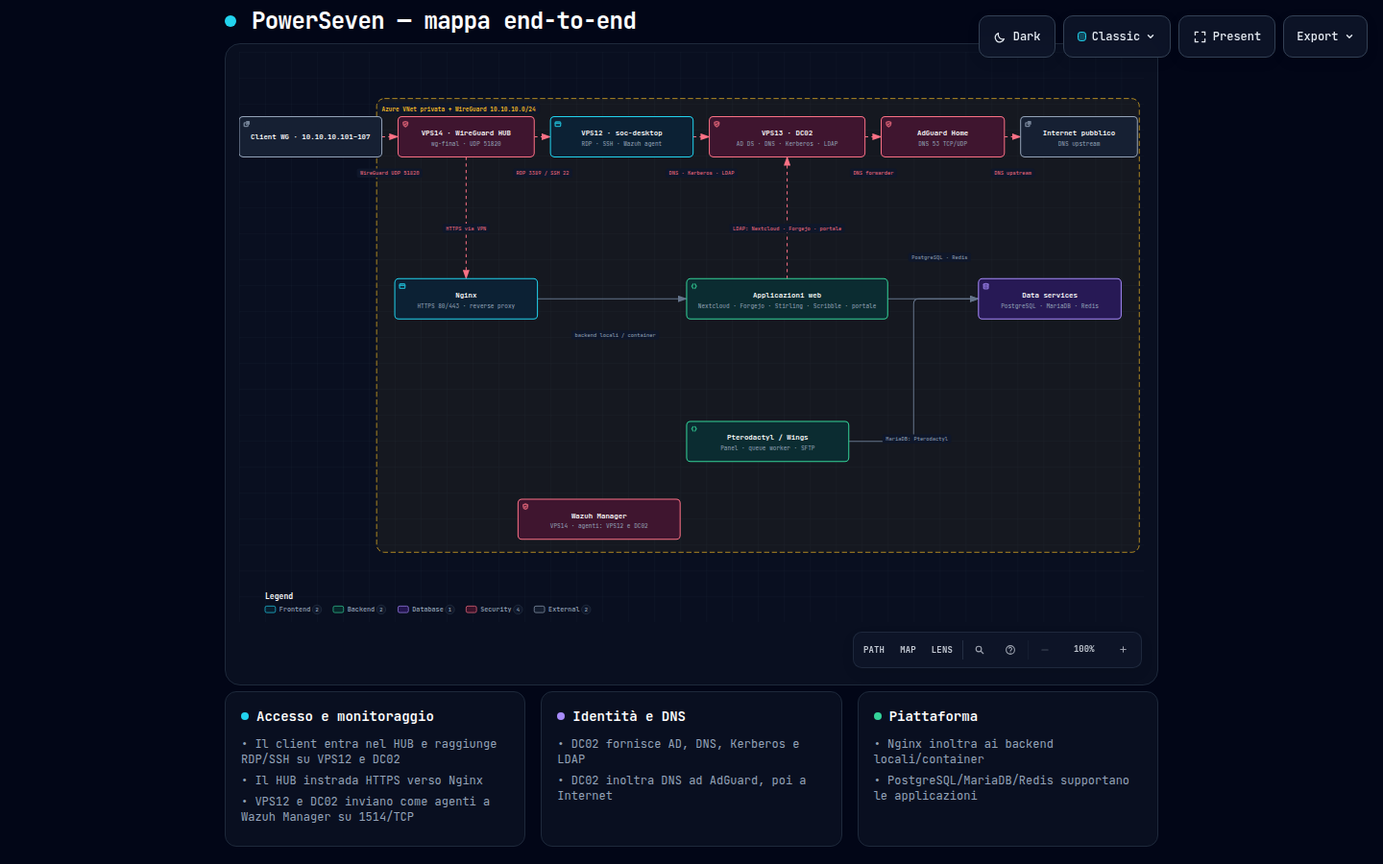
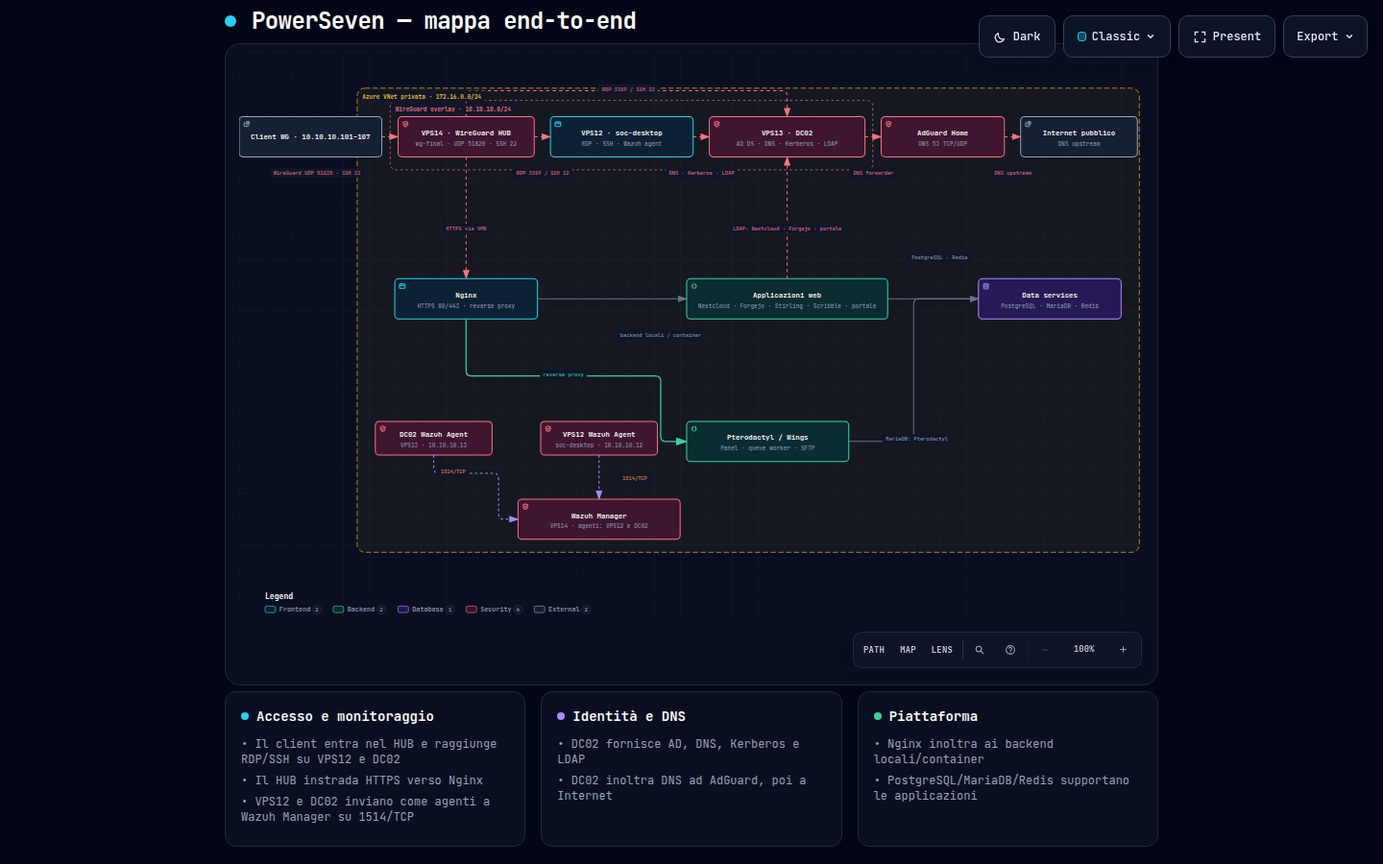
docs: finalize PowerSeven end-to-end architecture

diff --git a/diagrams/powerseven-end-to-end.html b/diagrams/powerseven-end-to-end.html
@@ -5156,19 +5156,25 @@ OTHER DEALINGS IN THE FONT SOFTWARE.
         <rect width="100%" height="100%" fill="url(#grid)" />
 
         <!-- Boundaries (behind everything) -->
-        <rect data-graph-role="structural-frame" data-composition-frame-kind="region" data-composition-frame-id="0" data-composition-frame-label="Azure VNet privata + WireGuard 10.10.10.0/24" x="212" y="72" width="1176" height="700" rx="12" class="c-region" stroke-width="1"/>
+        <rect data-graph-role="structural-frame" data-composition-frame-kind="region" data-composition-frame-id="0" data-composition-frame-label="Azure VNet privata · 172.16.0.0/24" x="182" y="56" width="1206" height="716" rx="12" class="c-region" stroke-width="1"/>
+
+        <rect data-graph-role="structural-frame" data-composition-frame-kind="security-group" data-composition-frame-id="1" data-composition-frame-label="WireGuard overlay · 10.10.10.0/24" x="233" y="75" width="744" height="107" rx="8" class="c-security-group" stroke-width="1"/>
 
         <!-- Connection paths (before components for correct z-order) -->
-        <path data-edge-from="clients" data-edge-to="hub" data-edge-label="WireGuard UDP 51820" data-edge-key="0" data-composition-points="220,131;245,131" d="M 220 131 L 245 131" class="a-security" stroke-width="1.5" marker-end="url(#arrowhead-security)"/>
+        <path data-edge-from="clients" data-edge-to="hub" data-edge-label="WireGuard UDP 51820 · SSH 22" data-edge-key="0" data-composition-points="220,131;245,131" d="M 220 131 L 245 131" class="a-security" stroke-width="1.5" marker-end="url(#arrowhead-security)"/>
         <path data-edge-from="hub" data-edge-to="desktop" data-edge-label="RDP 3389 / SSH 22" data-edge-key="1" data-composition-points="455,131;480,131" d="M 455 131 L 480 131" class="a-security" stroke-width="1.5" marker-end="url(#arrowhead-security)"/>
-        <path data-edge-from="desktop" data-edge-to="dc" data-edge-label="DNS · Kerberos · LDAP" data-edge-key="2" data-composition-points="700,131;725,131" d="M 700 131 L 725 131" class="a-security" stroke-width="1.5" marker-end="url(#arrowhead-security)"/>
-        <path data-edge-from="dc" data-edge-to="adguard" data-edge-label="DNS forwarder" data-edge-key="3" data-composition-points="965,131;990,131" d="M 965 131 L 990 131" class="a-security" stroke-width="1.5" marker-end="url(#arrowhead-security)"/>
-        <path data-edge-from="adguard" data-edge-to="internet" data-edge-label="DNS upstream" data-edge-key="4" data-composition-points="1180,131;1205,131" d="M 1180 131 L 1205 131" class="a-security" stroke-width="1.5" marker-end="url(#arrowhead-security)"/>
-        <path data-edge-from="hub" data-edge-to="nginx" data-edge-label="HTTPS via VPN" data-edge-key="5" data-composition-points="350,162;350,350" d="M 350 162 L 350 350" class="a-security" stroke-width="1.5" marker-end="url(#arrowhead-security)"/>
-        <path data-edge-from="nginx" data-edge-to="apps" data-edge-label="backend locali / container" data-edge-key="6" data-composition-points="460,381;690,381" d="M 460 381 L 690 381" class="a-default" stroke-width="1.5" marker-end="url(#arrowhead)"/>
-        <path data-edge-from="apps" data-edge-to="dc" data-edge-label="LDAP: Nextcloud · Forgejo · portale" data-edge-key="7" data-composition-points="845,350;845,162" d="M 845 350 L 845 162" class="a-security" stroke-width="1.5" marker-end="url(#arrowhead-security)"/>
-        <path data-edge-from="apps" data-edge-to="data" data-edge-label="PostgreSQL · Redis" data-edge-key="8" data-composition-points="1000,381;1140,381" d="M 1000 381 L 1140 381" class="a-default" stroke-width="1.5" marker-end="url(#arrowhead)"/>
-        <path data-edge-from="pter" data-edge-to="data" data-edge-label="MariaDB: Pterodactyl" data-edge-key="9" data-composition-points="940,601;1040,601;1040,381;1140,381" d="M 940 601 L 1032 601 Q 1040 601 1040 593 L 1040 389 Q 1040 381 1048 381 L 1140 381" class="a-default" stroke-width="1.5" marker-end="url(#arrowhead)"/>
+        <path data-edge-from="hub" data-edge-to="dc" data-edge-label="RDP 3389 / SSH 22" data-edge-key="2" data-composition-points="350,100;350,60;845,60;845,100" d="M 350 100 L 350 68 Q 350 60 358 60 L 837 60 Q 845 60 845 68 L 845 100" class="a-security" stroke-width="1.5" marker-end="url(#arrowhead-security)"/>
+        <path data-edge-from="desktop" data-edge-to="dc" data-edge-label="DNS · Kerberos · LDAP" data-edge-key="3" data-composition-points="700,131;725,131" d="M 700 131 L 725 131" class="a-security" stroke-width="1.5" marker-end="url(#arrowhead-security)"/>
+        <path data-edge-from="dc" data-edge-to="adguard" data-edge-label="DNS forwarder" data-edge-key="4" data-composition-points="965,131;990,131" d="M 965 131 L 990 131" class="a-security" stroke-width="1.5" marker-end="url(#arrowhead-security)"/>
+        <path data-edge-from="adguard" data-edge-to="internet" data-edge-label="DNS upstream" data-edge-key="5" data-composition-points="1180,131;1205,131" d="M 1180 131 L 1205 131" class="a-security" stroke-width="1.5" marker-end="url(#arrowhead-security)"/>
+        <path data-edge-from="hub" data-edge-to="nginx" data-edge-label="HTTPS via VPN" data-edge-key="6" data-composition-points="350,162;350,350" d="M 350 162 L 350 350" class="a-security" stroke-width="1.5" marker-end="url(#arrowhead-security)"/>
+        <path data-edge-from="nginx" data-edge-to="apps" data-edge-label="backend locali / container" data-edge-key="7" data-composition-points="460,381;690,381" d="M 460 381 L 690 381" class="a-default" stroke-width="1.5" marker-end="url(#arrowhead)"/>
+        <path data-edge-from="apps" data-edge-to="dc" data-edge-label="LDAP: Nextcloud · Forgejo · portale" data-edge-key="8" data-composition-points="845,350;845,162" d="M 845 350 L 845 162" class="a-security" stroke-width="1.5" marker-end="url(#arrowhead-security)"/>
+        <path data-edge-from="apps" data-edge-to="data" data-edge-label="PostgreSQL · Redis" data-edge-key="9" data-composition-points="1000,381;1140,381" d="M 1000 381 L 1140 381" class="a-default" stroke-width="1.5" marker-end="url(#arrowhead)"/>
+        <path data-edge-from="pter" data-edge-to="data" data-edge-label="MariaDB: Pterodactyl" data-edge-key="10" data-composition-points="940,601;1040,601;1040,381;1140,381" d="M 940 601 L 1032 601 Q 1040 601 1040 593 L 1040 389 Q 1040 381 1048 381 L 1140 381" class="a-default" stroke-width="1.5" marker-end="url(#arrowhead)"/>
+        <path data-edge-from="nginx" data-edge-to="pter" data-edge-label="reverse proxy" data-edge-key="11" data-composition-points="350,412;350,500;650,500;650,601;690,601" d="M 350 412 L 350 492 Q 350 500 358 500 L 642 500 Q 650 500 650 508 L 650 593 Q 650 601 658 601 L 690 601" class="a-emphasis" stroke-width="1.8" marker-end="url(#arrowhead-emphasis)"/>
+        <path data-edge-from="agent12" data-edge-to="wazuh" data-edge-label="1514/TCP" data-edge-key="12" data-composition-points="555,622;555,690" d="M 555 622 L 555 690" class="a-dashed" stroke-width="1.5" marker-end="url(#arrowhead-dashed)"/>
+        <path data-edge-from="agentdc" data-edge-to="wazuh" data-edge-label="1514/TCP" data-edge-key="13" data-composition-points="300,622;300,650;400,650;400,721;430,721" d="M 300 622 L 300 642 Q 300 650 308 650 L 392 650 Q 400 650 400 658 L 400 713 Q 400 721 408 721 L 430 721" class="a-dashed" stroke-width="1.5" marker-end="url(#arrowhead-dashed)"/>
 
         <!-- Components -->
         <g id="node-clients" data-node-id="clients" data-node-label="Client WG · 10.10.10.101–107" tabindex="0" role="button" aria-label="Focus Client WG · 10.10.10.101–107, Architecture component" aria-pressed="false" data-node-kind="external" data-node-context="Architecture component">
@@ -5182,8 +5188,8 @@ OTHER DEALINGS IN THE FONT SOFTWARE.
           <text data-node-label="" x="110" y="135" class="t-primary" font-size="11" font-weight="600" text-anchor="middle">Client WG · 10.10.10.101–107</text>
         </g>
 
-        <g id="node-hub" data-node-id="hub" data-node-label="VPS14 · WireGuard HUB" tabindex="0" role="button" aria-label="Focus VPS14 · WireGuard HUB, wg-final · UDP 51820, Azure VNet privata + WireGuard 10.10.10.0/24" aria-pressed="false" data-node-kind="security" data-node-sublabel="wg-final · UDP 51820" data-node-context="Azure VNet privata + WireGuard 10.10.10.0/24">
-          <title>VPS14 · WireGuard HUB · wg-final · UDP 51820 · Azure VNet privata + WireGuard 10.10.10.0/24</title>
+        <g id="node-hub" data-node-id="hub" data-node-label="VPS14 · WireGuard HUB" tabindex="0" role="button" aria-label="Focus VPS14 · WireGuard HUB, wg-final · UDP 51820 · SSH 22, Azure VNet privata · 172.16.0.0/24 › WireGuard overlay · 10.10.10.0/24" aria-pressed="false" data-node-kind="security" data-node-sublabel="wg-final · UDP 51820 · SSH 22" data-node-context="Azure VNet privata · 172.16.0.0/24 › WireGuard overlay · 10.10.10.0/24">
+          <title>VPS14 · WireGuard HUB · wg-final · UDP 51820 · SSH 22 · Azure VNet privata · 172.16.0.0/24 › WireGuard overlay · 10.10.10.0/24</title>
           <rect x="245" y="100" width="210" height="62" rx="6" class="c-mask"/>
           <rect x="245" y="100" width="210" height="62" rx="6" class="c-security" stroke-width="1.5"/>
           <g aria-hidden="true" data-semantic-sigil="security" class="semantic-sigil s-security" transform="translate(251 106) scale(0.6875)">
@@ -5191,11 +5197,11 @@ OTHER DEALINGS IN THE FONT SOFTWARE.
             <path d="m5.8 8 1.5 1.5 3-3"/>
           </g>
           <text data-node-label="" data-detail-anchor="" x="350" y="129" class="t-primary" font-size="11" font-weight="600" text-anchor="middle">VPS14 · WireGuard HUB</text>
-        <text data-detail="context" x="350" y="145" class="t-muted" font-size="9" text-anchor="middle">wg-final · UDP 51820</text>
+        <text data-detail="context" x="350" y="145" class="t-muted" font-size="9" text-anchor="middle">wg-final · UDP 51820 · SSH 22</text>
         </g>
 
-        <g id="node-desktop" data-node-id="desktop" data-node-label="VPS12 · soc-desktop" tabindex="0" role="button" aria-label="Focus VPS12 · soc-desktop, RDP · SSH · Wazuh agent, Azure VNet privata + WireGuard 10.10.10.0/24" aria-pressed="false" data-node-kind="frontend" data-node-sublabel="RDP · SSH · Wazuh agent" data-node-context="Azure VNet privata + WireGuard 10.10.10.0/24">
-          <title>VPS12 · soc-desktop · RDP · SSH · Wazuh agent · Azure VNet privata + WireGuard 10.10.10.0/24</title>
+        <g id="node-desktop" data-node-id="desktop" data-node-label="VPS12 · soc-desktop" tabindex="0" role="button" aria-label="Focus VPS12 · soc-desktop, RDP · SSH · Wazuh agent, Azure VNet privata · 172.16.0.0/24 › WireGuard overlay · 10.10.10.0/24" aria-pressed="false" data-node-kind="frontend" data-node-sublabel="RDP · SSH · Wazuh agent" data-node-context="Azure VNet privata · 172.16.0.0/24 › WireGuard overlay · 10.10.10.0/24">
+          <title>VPS12 · soc-desktop · RDP · SSH · Wazuh agent · Azure VNet privata · 172.16.0.0/24 › WireGuard overlay · 10.10.10.0/24</title>
           <rect x="480" y="100" width="220" height="62" rx="6" class="c-mask"/>
           <rect x="480" y="100" width="220" height="62" rx="6" class="c-frontend" stroke-width="1.5"/>
           <g aria-hidden="true" data-semantic-sigil="frontend" class="semantic-sigil s-frontend" transform="translate(486 106) scale(0.6875)">
@@ -5208,8 +5214,8 @@ OTHER DEALINGS IN THE FONT SOFTWARE.
         <text data-detail="context" x="590" y="145" class="t-muted" font-size="9" text-anchor="middle">RDP · SSH · Wazuh agent</text>
         </g>
 
-        <g id="node-dc" data-node-id="dc" data-node-label="VPS13 · DC02" tabindex="0" role="button" aria-label="Focus VPS13 · DC02, AD DS · DNS · Kerberos · LDAP, Azure VNet privata + WireGuard 10.10.10.0/24" aria-pressed="false" data-node-kind="security" data-node-sublabel="AD DS · DNS · Kerberos · LDAP" data-node-context="Azure VNet privata + WireGuard 10.10.10.0/24">
-          <title>VPS13 · DC02 · AD DS · DNS · Kerberos · LDAP · Azure VNet privata + WireGuard 10.10.10.0/24</title>
+        <g id="node-dc" data-node-id="dc" data-node-label="VPS13 · DC02" tabindex="0" role="button" aria-label="Focus VPS13 · DC02, AD DS · DNS · Kerberos · LDAP, Azure VNet privata · 172.16.0.0/24 › WireGuard overlay · 10.10.10.0/24" aria-pressed="false" data-node-kind="security" data-node-sublabel="AD DS · DNS · Kerberos · LDAP" data-node-context="Azure VNet privata · 172.16.0.0/24 › WireGuard overlay · 10.10.10.0/24">
+          <title>VPS13 · DC02 · AD DS · DNS · Kerberos · LDAP · Azure VNet privata · 172.16.0.0/24 › WireGuard overlay · 10.10.10.0/24</title>
           <rect x="725" y="100" width="240" height="62" rx="6" class="c-mask"/>
           <rect x="725" y="100" width="240" height="62" rx="6" class="c-security" stroke-width="1.5"/>
           <g aria-hidden="true" data-semantic-sigil="security" class="semantic-sigil s-security" transform="translate(731 106) scale(0.6875)">
@@ -5220,8 +5226,8 @@ OTHER DEALINGS IN THE FONT SOFTWARE.
         <text data-detail="context" x="845" y="145" class="t-muted" font-size="9" text-anchor="middle">AD DS · DNS · Kerberos · LDAP</text>
         </g>
 
-        <g id="node-adguard" data-node-id="adguard" data-node-label="AdGuard Home" tabindex="0" role="button" aria-label="Focus AdGuard Home, DNS 53 TCP/UDP, Azure VNet privata + WireGuard 10.10.10.0/24" aria-pressed="false" data-node-kind="security" data-node-sublabel="DNS 53 TCP/UDP" data-node-context="Azure VNet privata + WireGuard 10.10.10.0/24">
-          <title>AdGuard Home · DNS 53 TCP/UDP · Azure VNet privata + WireGuard 10.10.10.0/24</title>
+        <g id="node-adguard" data-node-id="adguard" data-node-label="AdGuard Home" tabindex="0" role="button" aria-label="Focus AdGuard Home, DNS 53 TCP/UDP, Azure VNet privata · 172.16.0.0/24" aria-pressed="false" data-node-kind="security" data-node-sublabel="DNS 53 TCP/UDP" data-node-context="Azure VNet privata · 172.16.0.0/24">
+          <title>AdGuard Home · DNS 53 TCP/UDP · Azure VNet privata · 172.16.0.0/24</title>
           <rect x="990" y="100" width="190" height="62" rx="6" class="c-mask"/>
           <rect x="990" y="100" width="190" height="62" rx="6" class="c-security" stroke-width="1.5"/>
           <g aria-hidden="true" data-semantic-sigil="security" class="semantic-sigil s-security" transform="translate(996 106) scale(0.6875)">
@@ -5244,8 +5250,8 @@ OTHER DEALINGS IN THE FONT SOFTWARE.
         <text data-detail="context" x="1295" y="145" class="t-muted" font-size="9" text-anchor="middle">DNS upstream</text>
         </g>
 
-        <g id="node-nginx" data-node-id="nginx" data-node-label="Nginx" tabindex="0" role="button" aria-label="Focus Nginx, HTTPS 80/443 · reverse proxy, Azure VNet privata + WireGuard 10.10.10.0/24" aria-pressed="false" data-node-kind="frontend" data-node-sublabel="HTTPS 80/443 · reverse proxy" data-node-context="Azure VNet privata + WireGuard 10.10.10.0/24">
-          <title>Nginx · HTTPS 80/443 · reverse proxy · Azure VNet privata + WireGuard 10.10.10.0/24</title>
+        <g id="node-nginx" data-node-id="nginx" data-node-label="Nginx" tabindex="0" role="button" aria-label="Focus Nginx, HTTPS 80/443 · reverse proxy, Azure VNet privata · 172.16.0.0/24" aria-pressed="false" data-node-kind="frontend" data-node-sublabel="HTTPS 80/443 · reverse proxy" data-node-context="Azure VNet privata · 172.16.0.0/24">
+          <title>Nginx · HTTPS 80/443 · reverse proxy · Azure VNet privata · 172.16.0.0/24</title>
           <rect x="240" y="350" width="220" height="62" rx="6" class="c-mask"/>
           <rect x="240" y="350" width="220" height="62" rx="6" class="c-frontend" stroke-width="1.5"/>
           <g aria-hidden="true" data-semantic-sigil="frontend" class="semantic-sigil s-frontend" transform="translate(246 356) scale(0.6875)">
@@ -5258,8 +5264,8 @@ OTHER DEALINGS IN THE FONT SOFTWARE.
         <text data-detail="context" x="350" y="395" class="t-muted" font-size="9" text-anchor="middle">HTTPS 80/443 · reverse proxy</text>
         </g>
 
-        <g id="node-apps" data-node-id="apps" data-node-label="Applicazioni web" tabindex="0" role="button" aria-label="Focus Applicazioni web, Nextcloud · Forgejo · Stirling · Scribble · portale, Azure VNet privata + WireGuard 10.10.10.0/24" aria-pressed="false" data-node-kind="backend" data-node-sublabel="Nextcloud · Forgejo · Stirling · Scribble · portale" data-node-context="Azure VNet privata + WireGuard 10.10.10.0/24">
-          <title>Applicazioni web · Nextcloud · Forgejo · Stirling · Scribble · portale · Azure VNet privata + WireGuard 10.10.10.0/24</title>
+        <g id="node-apps" data-node-id="apps" data-node-label="Applicazioni web" tabindex="0" role="button" aria-label="Focus Applicazioni web, Nextcloud · Forgejo · Stirling · Scribble · portale, Azure VNet privata · 172.16.0.0/24" aria-pressed="false" data-node-kind="backend" data-node-sublabel="Nextcloud · Forgejo · Stirling · Scribble · portale" data-node-context="Azure VNet privata · 172.16.0.0/24">
+          <title>Applicazioni web · Nextcloud · Forgejo · Stirling · Scribble · portale · Azure VNet privata · 172.16.0.0/24</title>
           <rect x="690" y="350" width="310" height="62" rx="6" class="c-mask"/>
           <rect x="690" y="350" width="310" height="62" rx="6" class="c-backend" stroke-width="1.5"/>
           <g aria-hidden="true" data-semantic-sigil="backend" class="semantic-sigil s-backend" transform="translate(696 356) scale(0.6875)">
@@ -5269,8 +5275,8 @@ OTHER DEALINGS IN THE FONT SOFTWARE.
         <text data-detail="context" x="845" y="395" class="t-muted" font-size="9" text-anchor="middle">Nextcloud · Forgejo · Stirling · Scribble · portale</text>
         </g>
 
-        <g id="node-data" data-node-id="data" data-node-label="Data services" tabindex="0" role="button" aria-label="Focus Data services, PostgreSQL · MariaDB · Redis, Azure VNet privata + WireGuard 10.10.10.0/24" aria-pressed="false" data-node-kind="database" data-node-sublabel="PostgreSQL · MariaDB · Redis" data-node-context="Azure VNet privata + WireGuard 10.10.10.0/24">
-          <title>Data services · PostgreSQL · MariaDB · Redis · Azure VNet privata + WireGuard 10.10.10.0/24</title>
+        <g id="node-data" data-node-id="data" data-node-label="Data services" tabindex="0" role="button" aria-label="Focus Data services, PostgreSQL · MariaDB · Redis, Azure VNet privata · 172.16.0.0/24" aria-pressed="false" data-node-kind="database" data-node-sublabel="PostgreSQL · MariaDB · Redis" data-node-context="Azure VNet privata · 172.16.0.0/24">
+          <title>Data services · PostgreSQL · MariaDB · Redis · Azure VNet privata · 172.16.0.0/24</title>
           <rect x="1140" y="350" width="220" height="62" rx="6" class="c-mask"/>
           <rect x="1140" y="350" width="220" height="62" rx="6" class="c-database" stroke-width="1.5"/>
           <g aria-hidden="true" data-semantic-sigil="database" class="semantic-sigil s-database" transform="translate(1146 356) scale(0.6875)">
@@ -5281,8 +5287,32 @@ OTHER DEALINGS IN THE FONT SOFTWARE.
         <text data-detail="context" x="1250" y="395" class="t-muted" font-size="9" text-anchor="middle">PostgreSQL · MariaDB · Redis</text>
         </g>
 
-        <g id="node-pter" data-node-id="pter" data-node-label="Pterodactyl / Wings" tabindex="0" role="button" aria-label="Focus Pterodactyl / Wings, Panel · queue worker · SFTP, Azure VNet privata + WireGuard 10.10.10.0/24" aria-pressed="false" data-node-kind="backend" data-node-sublabel="Panel · queue worker · SFTP" data-node-context="Azure VNet privata + WireGuard 10.10.10.0/24">
-          <title>Pterodactyl / Wings · Panel · queue worker · SFTP · Azure VNet privata + WireGuard 10.10.10.0/24</title>
+        <g id="node-agentdc" data-node-id="agentdc" data-node-label="DC02 Wazuh Agent" tabindex="0" role="button" aria-label="Focus DC02 Wazuh Agent, VPS13 · 10.10.10.13, Azure VNet privata · 172.16.0.0/24" aria-pressed="false" data-node-kind="security" data-node-sublabel="VPS13 · 10.10.10.13" data-node-context="Azure VNet privata · 172.16.0.0/24">
+          <title>DC02 Wazuh Agent · VPS13 · 10.10.10.13 · Azure VNet privata · 172.16.0.0/24</title>
+          <rect x="210" y="570" width="180" height="52" rx="6" class="c-mask"/>
+          <rect x="210" y="570" width="180" height="52" rx="6" class="c-security" stroke-width="1.5"/>
+          <g aria-hidden="true" data-semantic-sigil="security" class="semantic-sigil s-security" transform="translate(216 576) scale(0.6875)">
+            <path d="M8 2.2 13 4v3.5c0 3.1-1.8 5.4-5 6.5-3.2-1.1-5-3.4-5-6.5V4Z"/>
+            <path d="m5.8 8 1.5 1.5 3-3"/>
+          </g>
+          <text data-node-label="" data-detail-anchor="" x="300" y="594" class="t-primary" font-size="11" font-weight="600" text-anchor="middle">DC02 Wazuh Agent</text>
+        <text data-detail="context" x="300" y="610" class="t-muted" font-size="9" text-anchor="middle">VPS13 · 10.10.10.13</text>
+        </g>
+
+        <g id="node-agent12" data-node-id="agent12" data-node-label="VPS12 Wazuh Agent" tabindex="0" role="button" aria-label="Focus VPS12 Wazuh Agent, soc-desktop · 10.10.10.12, Azure VNet privata · 172.16.0.0/24" aria-pressed="false" data-node-kind="security" data-node-sublabel="soc-desktop · 10.10.10.12" data-node-context="Azure VNet privata · 172.16.0.0/24">
+          <title>VPS12 Wazuh Agent · soc-desktop · 10.10.10.12 · Azure VNet privata · 172.16.0.0/24</title>
+          <rect x="465" y="570" width="180" height="52" rx="6" class="c-mask"/>
+          <rect x="465" y="570" width="180" height="52" rx="6" class="c-security" stroke-width="1.5"/>
+          <g aria-hidden="true" data-semantic-sigil="security" class="semantic-sigil s-security" transform="translate(471 576) scale(0.6875)">
+            <path d="M8 2.2 13 4v3.5c0 3.1-1.8 5.4-5 6.5-3.2-1.1-5-3.4-5-6.5V4Z"/>
+            <path d="m5.8 8 1.5 1.5 3-3"/>
+          </g>
+          <text data-node-label="" data-detail-anchor="" x="555" y="594" class="t-primary" font-size="11" font-weight="600" text-anchor="middle">VPS12 Wazuh Agent</text>
+        <text data-detail="context" x="555" y="610" class="t-muted" font-size="9" text-anchor="middle">soc-desktop · 10.10.10.12</text>
+        </g>
+
+        <g id="node-pter" data-node-id="pter" data-node-label="Pterodactyl / Wings" tabindex="0" role="button" aria-label="Focus Pterodactyl / Wings, Panel · queue worker · SFTP, Azure VNet privata · 172.16.0.0/24" aria-pressed="false" data-node-kind="backend" data-node-sublabel="Panel · queue worker · SFTP" data-node-context="Azure VNet privata · 172.16.0.0/24">
+          <title>Pterodactyl / Wings · Panel · queue worker · SFTP · Azure VNet privata · 172.16.0.0/24</title>
           <rect x="690" y="570" width="250" height="62" rx="6" class="c-mask"/>
           <rect x="690" y="570" width="250" height="62" rx="6" class="c-backend" stroke-width="1.5"/>
           <g aria-hidden="true" data-semantic-sigil="backend" class="semantic-sigil s-backend" transform="translate(696 576) scale(0.6875)">
@@ -5292,8 +5322,8 @@ OTHER DEALINGS IN THE FONT SOFTWARE.
         <text data-detail="context" x="815" y="615" class="t-muted" font-size="9" text-anchor="middle">Panel · queue worker · SFTP</text>
         </g>
 
-        <g id="node-wazuh" data-node-id="wazuh" data-node-label="Wazuh Manager" tabindex="0" role="button" aria-label="Focus Wazuh Manager, VPS14 · agenti: VPS12 e DC02, Azure VNet privata + WireGuard 10.10.10.0/24" aria-pressed="false" data-node-kind="security" data-node-sublabel="VPS14 · agenti: VPS12 e DC02" data-node-context="Azure VNet privata + WireGuard 10.10.10.0/24">
-          <title>Wazuh Manager · VPS14 · agenti: VPS12 e DC02 · Azure VNet privata + WireGuard 10.10.10.0/24</title>
+        <g id="node-wazuh" data-node-id="wazuh" data-node-label="Wazuh Manager" tabindex="0" role="button" aria-label="Focus Wazuh Manager, VPS14 · agenti: VPS12 e DC02, Azure VNet privata · 172.16.0.0/24" aria-pressed="false" data-node-kind="security" data-node-sublabel="VPS14 · agenti: VPS12 e DC02" data-node-context="Azure VNet privata · 172.16.0.0/24">
+          <title>Wazuh Manager · VPS14 · agenti: VPS12 e DC02 · Azure VNet privata · 172.16.0.0/24</title>
           <rect x="430" y="690" width="250" height="62" rx="6" class="c-mask"/>
           <rect x="430" y="690" width="250" height="62" rx="6" class="c-security" stroke-width="1.5"/>
           <g aria-hidden="true" data-semantic-sigil="security" class="semantic-sigil s-security" transform="translate(436 696) scale(0.6875)">
@@ -5305,51 +5335,72 @@ OTHER DEALINGS IN THE FONT SOFTWARE.
         </g>
 
         <!-- Connection labels -->
-        <g data-detail="context" data-edge-from="clients" data-edge-to="hub" data-edge-label="WireGuard UDP 51820" data-edge-key="0">
-          <rect x="181.4" y="180" width="101.2" height="14" rx="3" class="c-mask"/>
-          <text x="232" y="190" class="t-security" font-size="8" text-anchor="middle">WireGuard UDP 51820</text>
+        <g data-detail="context" data-edge-from="clients" data-edge-to="hub" data-edge-label="WireGuard UDP 51820 · SSH 22" data-edge-key="0">
+          <rect x="47.8" y="180" width="144.4" height="14" rx="3" class="c-mask"/>
+          <text x="120" y="190" class="t-security" font-size="8" text-anchor="middle">WireGuard UDP 51820 · SSH 22</text>
         </g>
         <g data-detail="context" data-edge-from="hub" data-edge-to="desktop" data-edge-label="RDP 3389 / SSH 22" data-edge-key="1">
           <rect x="422.2" y="180" width="91.6" height="14" rx="3" class="c-mask"/>
           <text x="468" y="190" class="t-security" font-size="8" text-anchor="middle">RDP 3389 / SSH 22</text>
         </g>
-        <g data-detail="context" data-edge-from="desktop" data-edge-to="dc" data-edge-label="DNS · Kerberos · LDAP" data-edge-key="2">
+        <g data-detail="context" data-edge-from="hub" data-edge-to="dc" data-edge-label="RDP 3389 / SSH 22" data-edge-key="2">
+          <rect x="554.2" y="50" width="91.6" height="14" rx="3" class="c-mask"/>
+          <text x="600" y="60" class="t-security" font-size="8" text-anchor="middle">RDP 3389 / SSH 22</text>
+        </g>
+        <g data-detail="context" data-edge-from="desktop" data-edge-to="dc" data-edge-label="DNS · Kerberos · LDAP" data-edge-key="3">
           <rect x="657.6" y="180" width="110.8" height="14" rx="3" class="c-mask"/>
           <text x="713" y="190" class="t-security" font-size="8" text-anchor="middle">DNS · Kerberos · LDAP</text>
         </g>
-        <g data-detail="context" data-edge-from="dc" data-edge-to="adguard" data-edge-label="DNS forwarder" data-edge-key="3">
+        <g data-detail="context" data-edge-from="dc" data-edge-to="adguard" data-edge-label="DNS forwarder" data-edge-key="4">
           <rect x="941.8" y="180" width="72.4" height="14" rx="3" class="c-mask"/>
           <text x="978" y="190" class="t-security" font-size="8" text-anchor="middle">DNS forwarder</text>
         </g>
-        <g data-detail="context" data-edge-from="adguard" data-edge-to="internet" data-edge-label="DNS upstream" data-edge-key="4">
+        <g data-detail="context" data-edge-from="adguard" data-edge-to="internet" data-edge-label="DNS upstream" data-edge-key="5">
           <rect x="1159.2" y="180" width="67.6" height="14" rx="3" class="c-mask"/>
           <text x="1193" y="190" class="t-security" font-size="8" text-anchor="middle">DNS upstream</text>
         </g>
-        <g data-detail="context" data-edge-from="hub" data-edge-to="nginx" data-edge-label="HTTPS via VPN" data-edge-key="5">
+        <g data-detail="context" data-edge-from="hub" data-edge-to="nginx" data-edge-label="HTTPS via VPN" data-edge-key="6">
           <rect x="313.8" y="265" width="72.4" height="14" rx="3" class="c-mask"/>
           <text x="350" y="275" class="t-security" font-size="8" text-anchor="middle">HTTPS via VPN</text>
         </g>
-        <g data-detail="context" data-edge-from="nginx" data-edge-to="apps" data-edge-label="backend locali / container" data-edge-key="6">
-          <rect x="512.6" y="430" width="134.8" height="14" rx="3" class="c-mask"/>
-          <text x="580" y="440" class="t-muted" font-size="8" text-anchor="middle">backend locali / container</text>
+        <g data-detail="context" data-edge-from="nginx" data-edge-to="apps" data-edge-label="backend locali / container" data-edge-key="7">
+          <rect x="582.6" y="430" width="134.8" height="14" rx="3" class="c-mask"/>
+          <text x="650" y="440" class="t-muted" font-size="8" text-anchor="middle">backend locali / container</text>
         </g>
-        <g data-detail="context" data-edge-from="apps" data-edge-to="dc" data-edge-label="LDAP: Nextcloud · Forgejo · portale" data-edge-key="7">
+        <g data-detail="context" data-edge-from="apps" data-edge-to="dc" data-edge-label="LDAP: Nextcloud · Forgejo · portale" data-edge-key="8">
           <rect x="756" y="265" width="178" height="14" rx="3" class="c-mask"/>
           <text x="845" y="275" class="t-security" font-size="8" text-anchor="middle">LDAP: Nextcloud · Forgejo · portale</text>
         </g>
-        <g data-detail="context" data-edge-from="apps" data-edge-to="data" data-edge-label="PostgreSQL · Redis" data-edge-key="8">
+        <g data-detail="context" data-edge-from="apps" data-edge-to="data" data-edge-label="PostgreSQL · Redis" data-edge-key="9">
           <rect x="1031.8" y="310" width="96.39999999999999" height="14" rx="3" class="c-mask"/>
           <text x="1080" y="320" class="t-muted" font-size="8" text-anchor="middle">PostgreSQL · Redis</text>
         </g>
-        <g data-detail="context" data-edge-from="pter" data-edge-to="data" data-edge-label="MariaDB: Pterodactyl" data-edge-key="9">
+        <g data-detail="context" data-edge-from="pter" data-edge-to="data" data-edge-label="MariaDB: Pterodactyl" data-edge-key="10">
           <rect x="992" y="590" width="106" height="14" rx="3" class="c-mask"/>
           <text x="1045" y="600" class="t-muted" font-size="8" text-anchor="middle">MariaDB: Pterodactyl</text>
         </g>
+        <g data-detail="context" data-edge-from="nginx" data-edge-to="pter" data-edge-label="reverse proxy" data-edge-key="11">
+          <rect x="463.8" y="490" width="72.4" height="14" rx="3" class="c-mask"/>
+          <text x="500" y="500" class="t-backend" font-size="8" text-anchor="middle">reverse proxy</text>
+        </g>
+        <g data-detail="context" data-edge-from="agent12" data-edge-to="wazuh" data-edge-label="1514/TCP" data-edge-key="12">
+          <rect x="585.8" y="650" width="48.4" height="14" rx="3" class="c-mask"/>
+          <text x="610" y="660" class="t-messagebus" font-size="8" text-anchor="middle">1514/TCP</text>
+        </g>
+        <g data-detail="context" data-edge-from="agentdc" data-edge-to="wazuh" data-edge-label="1514/TCP" data-edge-key="13">
+          <rect x="305.8" y="640" width="48.4" height="14" rx="3" class="c-mask"/>
+          <text x="330" y="650" class="t-messagebus" font-size="8" text-anchor="middle">1514/TCP</text>
+        </g>
 
         <!-- Boundary labels (foreground masks keep routes out of titles) -->
-        <g data-graph-role="structural-frame-label" data-composition-frame-id="0" data-composition-frame-kind="region" data-composition-frame-label="Azure VNet privata + WireGuard 10.10.10.0/24">
-          <rect data-graph-role="structural-frame-label-mask" x="216" y="79" width="247.60002639999996" height="17" rx="3" class="c-mask"/>
-          <text data-boundary-label="" x="220" y="92.000001" class="t-cloud" font-size="9.000001" font-weight="600">Azure VNet privata + WireGuard 10.10.10.0/24</text>
+        <g data-graph-role="structural-frame-label" data-composition-frame-id="0" data-composition-frame-kind="region" data-composition-frame-label="Azure VNet privata · 172.16.0.0/24">
+          <rect data-graph-role="structural-frame-label-mask" x="186" y="60" width="193.60002039999998" height="17" rx="3" class="c-mask"/>
+          <text data-boundary-label="" x="190" y="73.000001" class="t-cloud" font-size="9.000001" font-weight="600">Azure VNet privata · 172.16.0.0/24</text>
+        </g>
+
+        <g data-graph-role="structural-frame-label" data-composition-frame-id="1" data-composition-frame-kind="security-group" data-composition-frame-label="WireGuard overlay · 10.10.10.0/24">
+          <rect data-graph-role="structural-frame-label-mask" x="237" y="79" width="188.20001979999998" height="17" rx="3" class="c-mask"/>
+          <text data-boundary-label="" x="241" y="92.000001" class="t-security" font-size="9.000001" font-weight="600">WireGuard overlay · 10.10.10.0/24</text>
         </g>
 
         <!-- Legend -->
